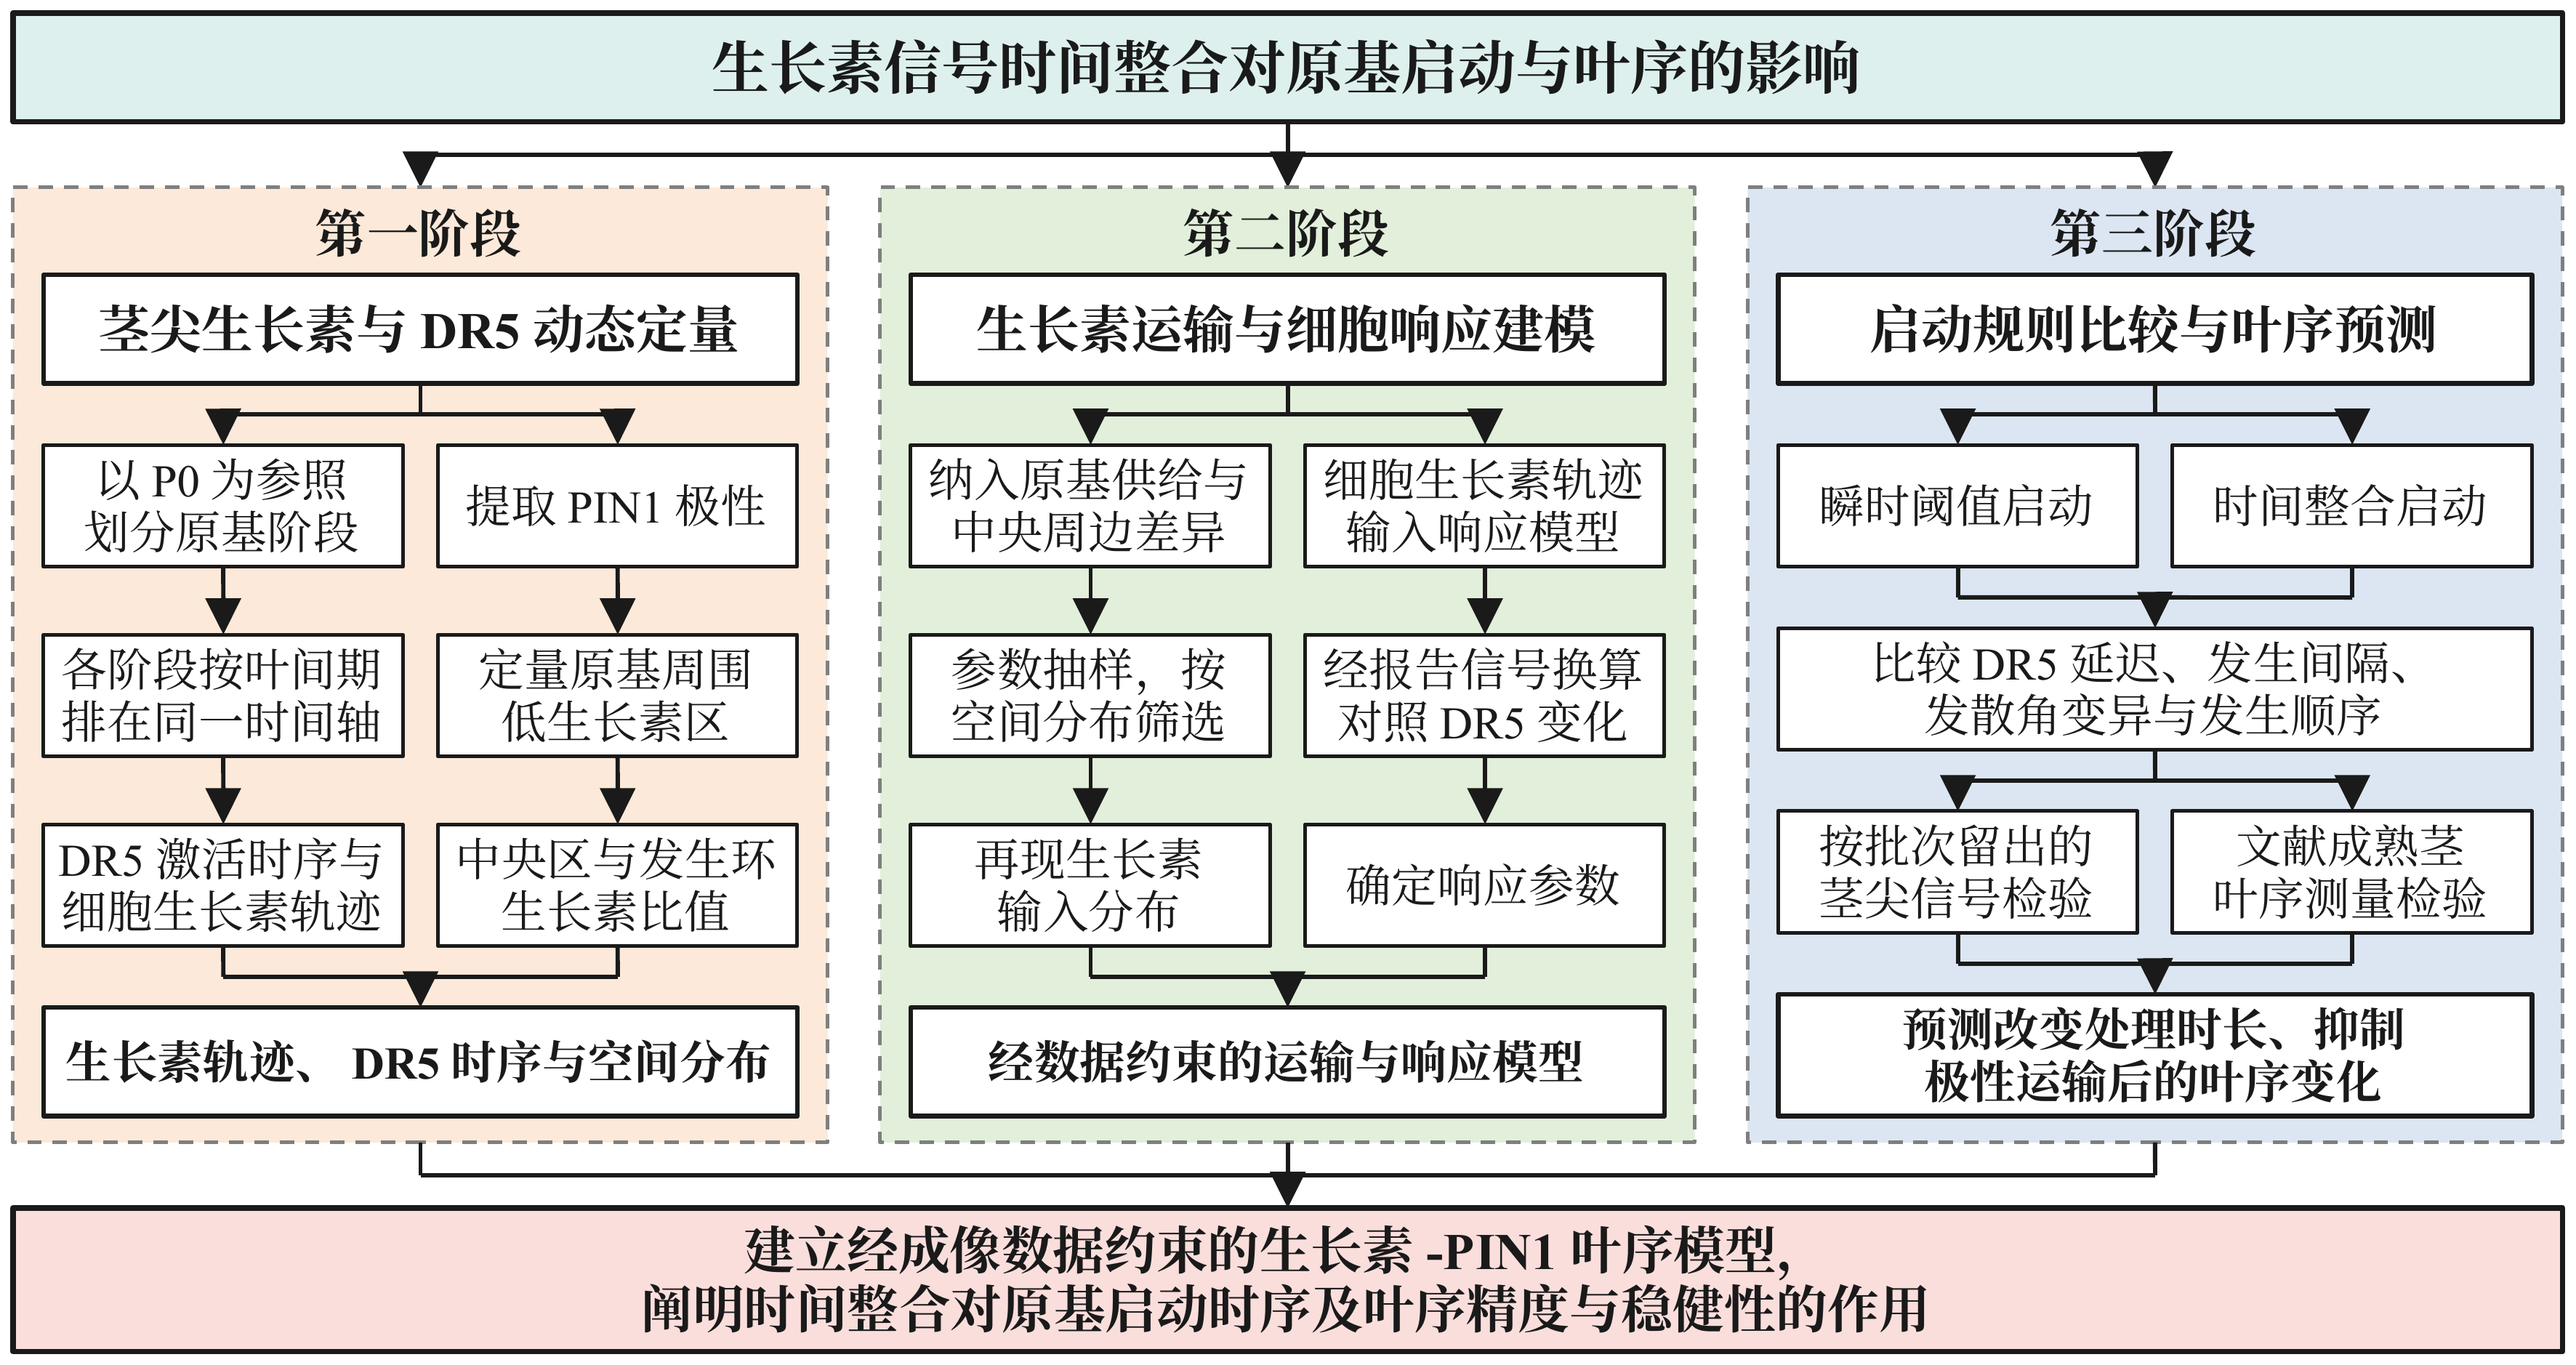
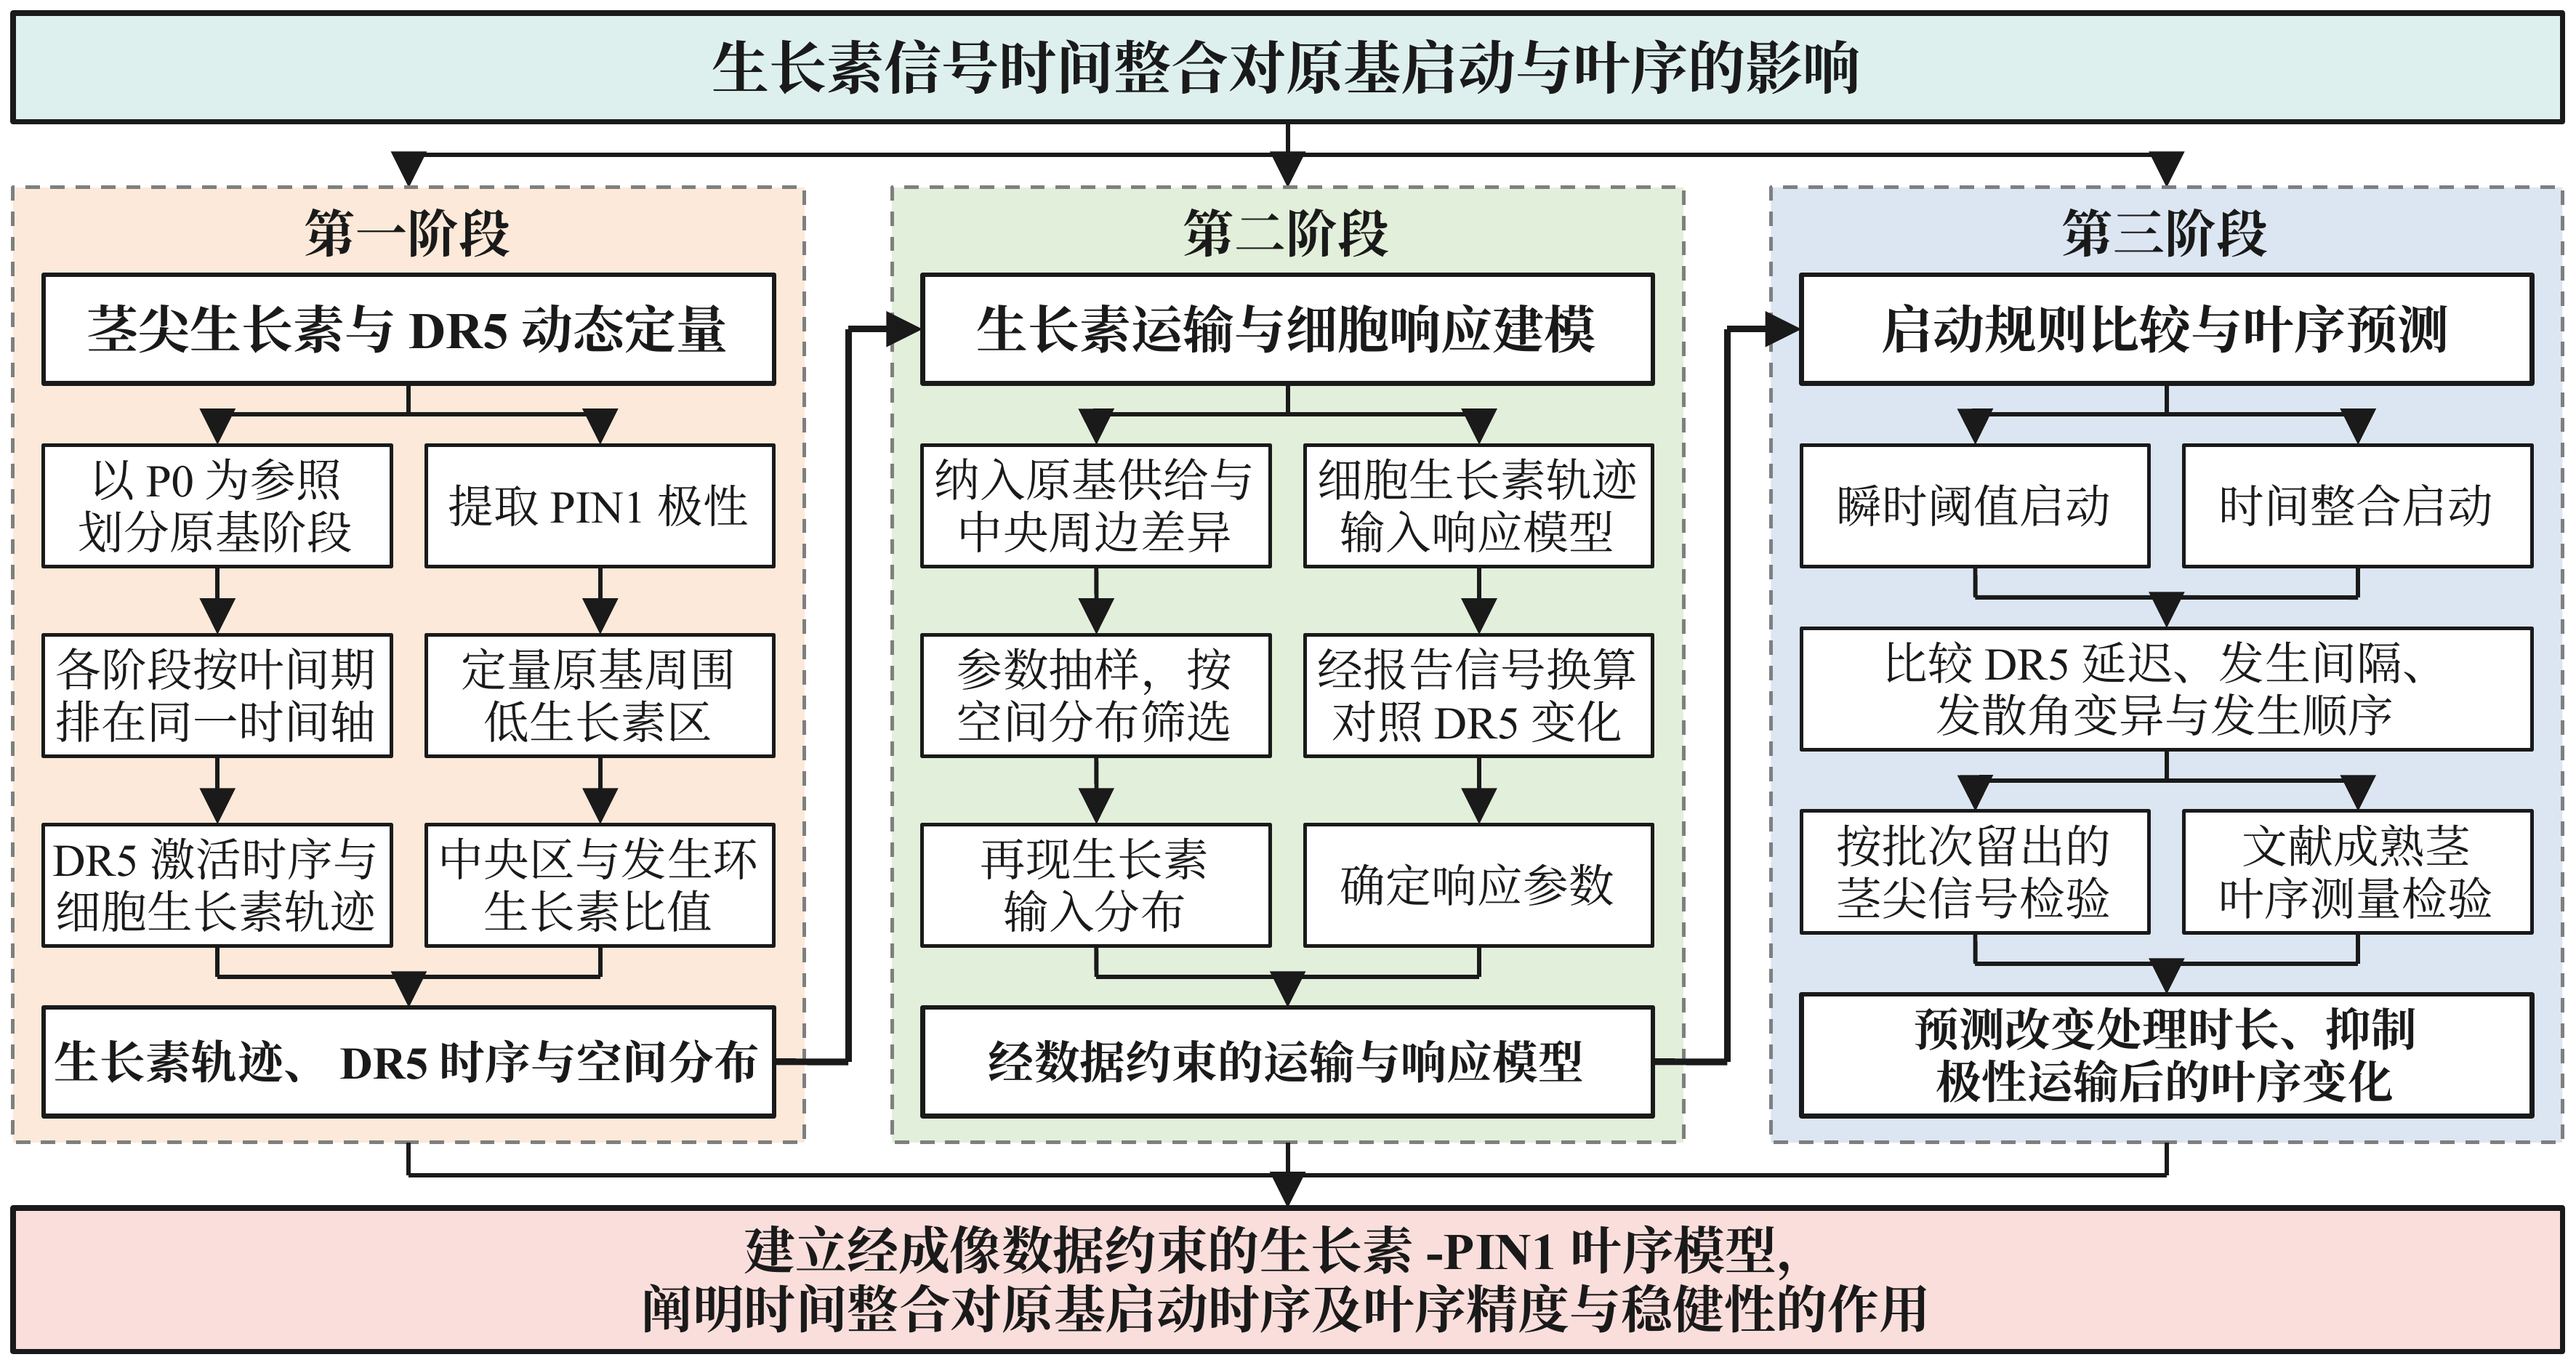
Fig. 2-1: link each stage's result to the next stage
The result box of stage 1 and of stage 2 now runs along the gutter into
the next stage's theme box, so the sequence between stages is drawn,
not only stated in the legend. Gutters widened to 0.2 in.

Claude-Session: https://claude.ai/code/session_01BHCDdTyVHVBXyaT1pkArZu

diff --git a/figures/prior_work/ppt/roadmap.js b/figures/prior_work/ppt/roadmap.js
@@ -23,8 +23,8 @@ function box(x, y, w, h, runs, o = {}) {
     margin: [1, 1.5, 1, 1.5], lineSpacingMultiple: 0.95, objectName: o.name,
   });
 }
-function seg(x1, y1, x2, y2, arrow) {
-  const ln = { color: INK, width: 0.7 };
+function seg(x1, y1, x2, y2, arrow, lw) {
+  const ln = { color: INK, width: lw || 0.7 };
   if (arrow) ln.endArrowType = "triangle";
   s.addShape(pres.ShapeType.line, {
     x: Math.min(x1, x2), y: Math.min(y1, y2), w: Math.max(Math.abs(x2 - x1), 0.0001), h: Math.max(Math.abs(y2 - y1), 0.0001),
@@ -57,7 +57,7 @@ function chain(x, y, w, texts, h, gap, fill) {    // vertical chain of boxes; re
 const M = 0.03, BH = 0.28, TG = 0.14;              // margin, box height, gap of a split/merge
 box(M, 0.03, W - 2 * M, 0.25, "生长素信号时间整合对原基启动与叶序的影响", { fs: FS_T, bold: true, fill: TOP, lw: 0.9, name: "topic" });
 
-const GAP = 0.12, FW = (W - 2 * M - 2 * GAP) / 3, FY = 0.43;
+const GAP = 0.2, FW = (W - 2 * M - 2 * GAP) / 3, FY = 0.43;
 const HH = 0.25, IN = FY + 0.2;                   // stage theme box height and top
 const BODY = HH + TG + BH + TG + BH + TG + BH + TG + BH;   // stage 3 is the tallest column
 const FH = 0.2 + BODY + 0.06;
@@ -113,6 +113,16 @@ stages.forEach((st, k) => {
   y += BH + TG;
   box(f.hx, y, f.hw, BH, "预测改变处理时长、抑制\n极性运输后的叶序变化", { bold: true, fill: "FFFFFF", lw: 0.8 });
 }
+
+// links between stages: each stage's result goes along the gutter into the next stage's theme box
+const OY = IN + BODY - HH;
+[0, 1].forEach((k) => {
+  const x0 = fx[k] + FW - 0.07, gx = fx[k] + FW + GAP / 2, x1 = fx[k + 1] + 0.07;
+  const y0 = OY + HH / 2, y1 = IN + HH / 2;
+  seg(x0, y0, gx, y0, false, 1.1);
+  seg(gx, y0, gx, y1, false, 1.1);
+  seg(gx, y1, x1, y1, true, 1.1);
+});
 
 // conclusion
 const fb = FY + FH, RY = fb + 0.15;
